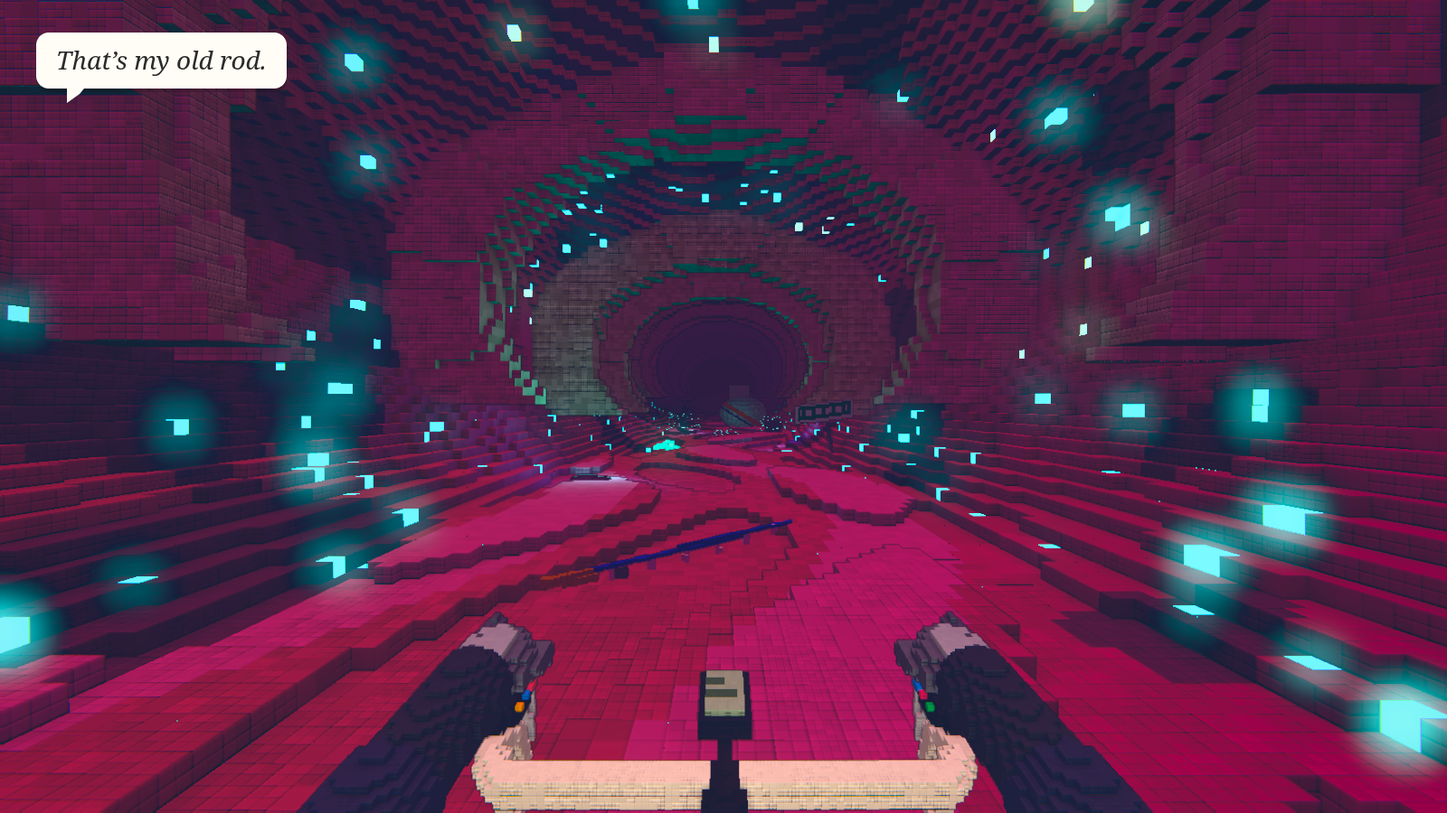
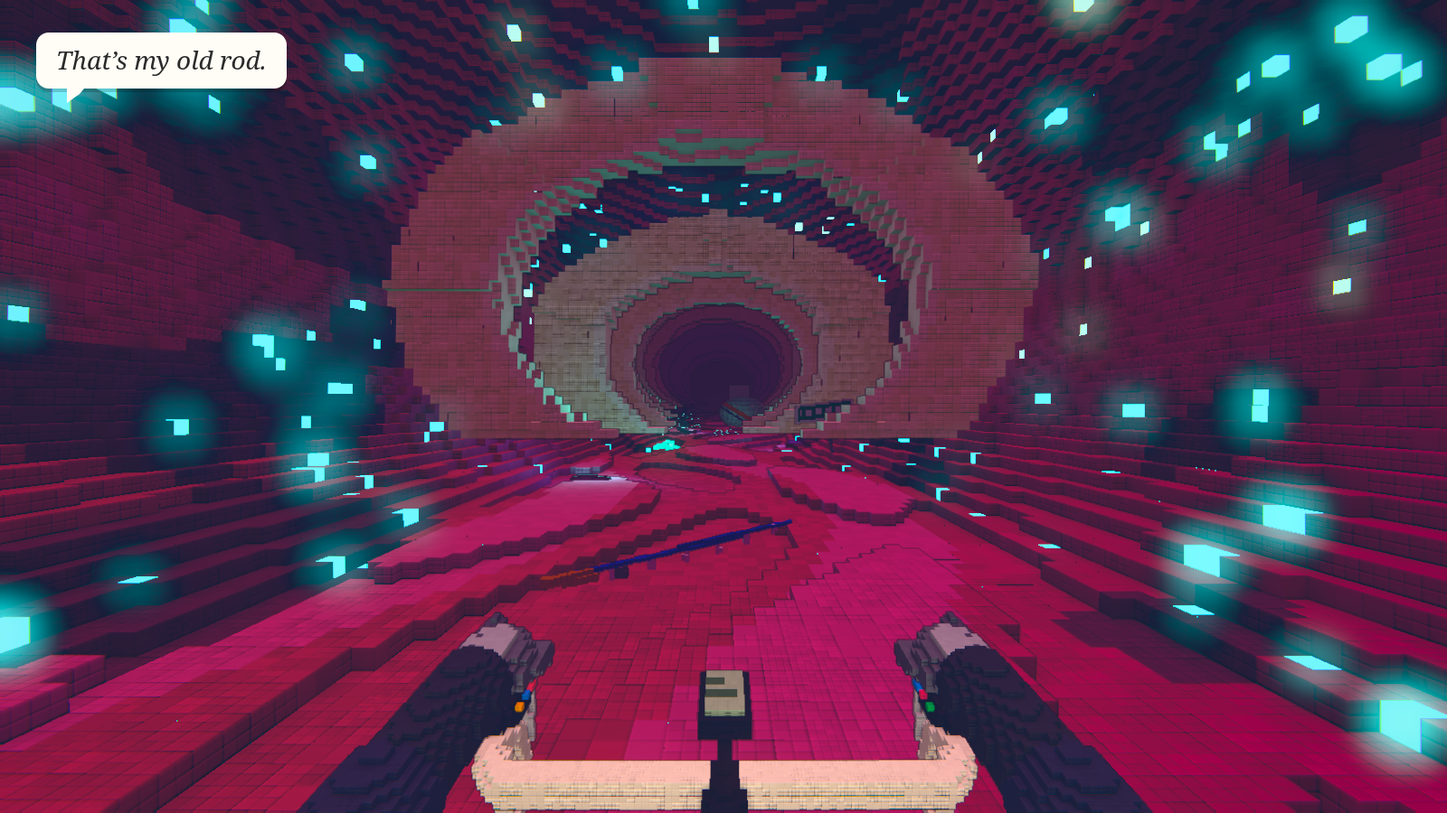
Seaside: drilling still, readable monkey, painted glyphs, lava glow, ribs
- New still: drilling out of the fish — first person behind the scavenged
  drill (gloves on upright grips), fluted bit biting into stepped bone rings
  at the end of a bored tunnel whose walls show flesh -> cartilage -> bone,
  sparks and chips flying back
- Monkey: trees pulled back off the path so the head reads; big round ears
  with dark cups, heart-shaped pale face mask over a dark-furred head
- Glyphs are now painted decals (canvas-drawn symbols: eyes, spirals, fish,
  ladders, suns) on the gate and down the columns, not voxels
- Lava: brighter emissive, a grid of warm lights to light the cavern, more
  bloom in the lava grade
- Belly ribs: own self-lit pale bone layer, slimmer, starting further in
- Re-entry: flames back all around the frame (calmer than the first pass)

Changed region(s): [[0.25, 0.0311, 0.7188, 0.56], [0.75, 0.0, 1.0, 0.4667], [0.0, 0.0, 0.2188, 0.4978]]

diff --git a/src/games/seaside/stills/later/monkey.ts b/src/games/seaside/stills/later/monkey.ts
@@ -38,7 +38,7 @@ function giant(g: VoxelGrid, x: number, z: number, H: number, R: number, seed: n
 export function stillMonkey(canvas: HTMLCanvasElement, w: number, h: number): Stage {
   const sunDir = new THREE.Vector3(-0.35, 0.9, 0.45);
   const st = makeStage(canvas, w, h, {
-    zenith: 0x6fbde6, horizon: 0xe2f0dc, fog: 0xb9d8b4, fogDensity: 0.0072, sunDir, sunColor: 0xfff0c8, sunI: 2.9, hemiSky: 0xc8e8c4, hemiGround: 0x3a5a2a, hemiI: 0.9,
+    zenith: 0x6fbde6, horizon: 0xe2f0dc, fog: 0xb9d8b4, fogDensity: 0.0042, sunDir, sunColor: 0xfff0c8, sunI: 2.9, hemiSky: 0xc8e8c4, hemiGround: 0x3a5a2a, hemiI: 0.9,
   });
 
   // forest floor with leaf litter and roots
@@ -53,10 +53,10 @@ export function stillMonkey(canvas: HTMLCanvasElement, w: number, h: number): St
   });
   // rainforest giants: an arch over the path in front, walls of trees down both sides, a backdrop behind the head
   const giants: Array<[number, number, number, number, [number, number]]> = [
-    [-10.5, -2, 24, 9, [3.5, 0]], [9, -7, 27, 10, [-3.5, 0]], [-11, -16, 26, 8, [2, 0]], [12, -20, 29, 9, [-2, 0]],
-    [-14, -30, 30, 9, [1, 0]], [15, -33, 28, 9, [-1, 0]], [-28, -12, 31, 11, [0, 0]], [29, -8, 30, 11, [0, 0]],
-    [-24, -40, 34, 12, [0, 0]], [25, -44, 33, 12, [0, 0]], [-36, -24, 32, 10, [0, 0]], [37, -28, 31, 10, [0, 0]],
-    [-14, FACE_Z - 26, 38, 14, [0, 0]], [12, FACE_Z - 30, 40, 15, [0, 0]], [-34, FACE_Z - 18, 36, 13, [0, 0]], [33, FACE_Z - 14, 37, 13, [0, 0]],
+    [-10.5, 1, 22, 7, [2.5, 0]], [10, -2, 24, 7, [-2.5, 0]], [-19, -14, 26, 7, [0, 0]], [20, -18, 27, 7, [0, 0]],
+    [-26, -30, 30, 8, [0, 0]], [27, -33, 28, 8, [0, 0]], [-30, -6, 31, 9, [0, 0]], [31, -4, 30, 9, [0, 0]],
+    [-34, -44, 34, 10, [0, 0]], [35, -48, 33, 10, [0, 0]], [-40, -22, 32, 9, [0, 0]], [41, -26, 31, 9, [0, 0]],
+    [-30, FACE_Z - 30, 30, 10, [0, 0]], [30, FACE_Z - 34, 30, 10, [0, 0]], [-44, FACE_Z - 14, 36, 12, [0, 0]], [44, FACE_Z - 10, 37, 12, [0, 0]],
   ];
   giants.forEach(([x, z, H, R, lean], i) => giant(g, x, z, H, R, i + 1, lean));
   addLit(st, 'jungle giants', g, 0.08, { cast: true, receive: true });
@@ -66,11 +66,11 @@ export function stillMonkey(canvas: HTMLCanvasElement, w: number, h: number): St
   for (let i = 0; i < 70; i++) {
     const [tx, tz, H] = giants[i % giants.length], a = rnd(i, 1, 70) * Math.PI * 2, d = 2 + rnd(i, 2, 70) * 6;
     const x = tx + Math.cos(a) * d, z = tz + Math.sin(a) * d;
-    if ((Math.abs(x) < 3 && z < 2 && z > PATH_END) || (Math.abs(x) < 13 && z < -18)) continue; // nothing hanging in front of the face
+    if ((Math.abs(x) < 3 && z < 2 && z > PATH_END) || (Math.abs(x) < 20 && z < -12)) continue; // nothing hanging in front of the face
     const y0 = ground(tx, tz) + H - 3, y1 = ground(x, z) + rnd(i, 3, 70) * 6, sway = (rnd(i, 4, 70) - 0.5) * 1.5;
     for (let k = 0; k < 24; k++) { const t0 = k / 24, t1 = (k + 1) / 24; u.wsegment([x + sway * Math.sin(t0 * 3), y0 + (y1 - y0) * t0, z], [x + sway * Math.sin(t1 * 3), y0 + (y1 - y0) * t1, z], 0.06, L.vine); if (k % 3 === 0) u.wellipsoid([x + sway * Math.sin(t0 * 3) + 0.12, y0 + (y1 - y0) * t0, z], [0.14, 0.05, 0.1], L.jungle3); }
   }
-  for (const [ia, ib] of [[0, 1], [1, 2], [0, 3], [6, 0], [7, 1], [2, 4], [3, 5]]) { // swags between giants, only over the near path
+  for (const [ia, ib] of [[0, 1], [6, 0], [7, 1], [2, 6], [3, 7]]) { // swags between giants, only over the near path
     const [ax, az, ah] = giants[ia], [bx, bz, bh] = giants[ib];
     const A = [ax, ground(ax, az) + ah * 0.75, az], B = [bx, ground(bx, bz) + bh * 0.75, bz];
     for (let k = 0; k < 30; k++) { const t0 = k / 30, t1 = (k + 1) / 30, p = (t: number) => [A[0] + (B[0] - A[0]) * t, A[1] + (B[1] - A[1]) * t - Math.sin(Math.PI * t) * 5, A[2] + (B[2] - A[2]) * t]; u.wsegment(p(t0), p(t1), 0.07, L.vine); }
@@ -84,7 +84,7 @@ export function stillMonkey(canvas: HTMLCanvasElement, w: number, h: number): St
   };
   for (let i = 0; i < 120; i++) {
     const side = i % 2 ? 1 : -1, x = side * (2.6 + rnd(i, 1, 71) ** 1.4 * 20), z = 4 - rnd(i, 2, 71) * (8 - FACE_Z), y0 = ground(x, z);
-    if (z < PATH_END - 6 && Math.abs(x) < 9) continue; // keep the mouth clear
+    if (z < PATH_END - 6 && Math.abs(x) < 12) continue; // keep the mouth clear
     const kind = rnd(i, 3, 71);
     if (kind < 0.45) { // big broad-leaf clump (elephant ear / banana)
       const n = 4 + Math.floor(rnd(i, 4, 71) * 4), size = 0.9 + rnd(i, 5, 71) * 1.4;
@@ -135,8 +135,13 @@ export function stillMonkey(canvas: HTMLCanvasElement, w: number, h: number): St
     const brow = (dx / 6.4) ** 2 + ((y - 10.1) / 1.1) ** 2 + ((z - (FACE_Z + 2.4)) / 1.5) ** 2 < 1;
     const muzzle = (dx / 4.8) ** 2 + ((y - 4.2) / 3.6) ** 2 + ((z - (FACE_Z + 2.0)) / 2.0) ** 2 < 1;
     const jaw = Math.abs(x) < 4.6 && y < 0.9 && z > FACE_Z - 1 && z < FACE_Z + 3.4; // lower jaw / threshold
-    const ears = [-1, 1].some((sx) => ((x - sx * 7.6) / 1.7) ** 2 + ((y - 8.6) / 2.4) ** 2 + ((z - (FACE_Z - 1)) / 0.9) ** 2 < 1);
+    const earAt = (sx: number) => ((x - sx * 8.6) / 2.6) ** 2 + ((y - 8.4) / 2.9) ** 2 + ((z - (FACE_Z - 0.2)) / 1.1) ** 2;
+    const ears = [-1, 1].some((sx) => earAt(sx) < 1);
+    const earCup = [-1, 1].some((sx) => earAt(sx) < 0.45 && z > FACE_Z + 0.2);
+    // heart-shaped face mask: two eye lobes + the muzzle
+    const mask = [-1, 1].some((sx) => ((x - sx * 2.4) / 2.5) ** 2 + ((y - 8.6) / 2.4) ** 2 < 1) || (x / 4.6) ** 2 + ((y - 4.2) / 4.0) ** 2 < 1;
     if (!(head || base || brow || muzzle || jaw || ears)) return 0;
+    if (earCup) return L.stoneDark;
     // eye sockets and nostrils
     if ([-1, 1].some((sx) => ((x - sx * 2.4) / 1.35) ** 2 + ((y - 8.7) / 1.05) ** 2 < 1) && z > FACE_Z + 0.4) return z < FACE_Z + 0.9 ? L.shadowVoid : 0;
     if ([-1, 1].some((sx) => ((x - sx * 0.75) / 0.38) ** 2 + ((y - 6.6) / 0.32) ** 2 < 1) && z > FACE_Z + 3.0) return 0;
@@ -151,15 +156,15 @@ export function stillMonkey(canvas: HTMLCanvasElement, w: number, h: number): St
     if (mo < 1.25 && z > FACE_Z + 1.6 && y > 0.6) return L.stoneDark; // lip ring
     const mossy = y > 3 && rnd(Math.round(wx * 3), Math.round(wy * 3), Math.round(wz * 3)) < 0.1 + 0.5 * Math.max(0, fbm(x / 3, z / 3, 2, 47) - 0.55);
     if (mossy) return L.moss;
-    if (muzzle || brow || jaw) return rnd(Math.round(wx * 3), Math.round(wy * 3), Math.round(wz * 3)) < 0.5 ? L.stone3 : L.stone; // pale face mask
-    const band = Math.floor(y / 0.6 + fbm(x / 4, z / 4, 2, 48) * 1.5) % 3;
-    return band === 1 ? L.stoneDark : L.stone2;
+    if ((mask && z > FACE_Z + 1.0) || muzzle || jaw) return rnd(Math.round(wx * 3), Math.round(wy * 3), Math.round(wz * 3)) < 0.5 ? L.stone3 : L.stone; // pale face mask
+    const n = fbm(x / 4, z / 4 + y / 4, 2, 48);
+    return n < 0.45 ? L.stoneDark : L.basalt2; // a dark-furred head around the pale face
   });
   const eg = new VoxelGrid(0.15);
   for (const sx of [-1, 1]) eg.wellipsoid([sx * 2.4 * K, 8.65 * K, FACE_Z + 1.0 * K], [0.3 * K, 0.24 * K, 0.15], L.glyph);
   addGlow(st, 'eye glints', eg, 1.6);
   for (let i = 0; i < 26; i++) { // vines spilling over the brow and ears, clear of the eyes and mouth
-    const ux = -7 + i * 0.56; if (Math.abs(ux) < 4.2) continue;
+    const ux = -7 + i * 0.56; if (Math.abs(ux) < 5.5) continue;
     const x = (ux + rnd(i, 1, 49) * 0.3) * K, len = (2 + rnd(i, 2, 49) * 6) * K;
     f.wsegment([x, 12.5 * K, FACE_Z + 1.5 * K], [x + (rnd(i, 3, 49) - 0.5) * 2, 12.5 * K - len, FACE_Z + 2.4 * K], 0.2, rnd(i, 4, 49) < 0.5 ? L.vine : L.jungle3);
   }

diff --git a/src/games/seaside/stills/later/drill.ts b/src/games/seaside/stills/later/drill.ts
@@ -1,0 +1,89 @@
+// Midday, 0:47 — drilling out of the fish: first person behind the scavenged drill (the bars became its grips), the
+// bit biting into the bone layer at the end of a short bored tunnel whose walls show the layers already cut through:
+// flesh → cartilage → bone. Chips fly back, sparks where steel meets bone.
+import * as THREE from 'three';
+import { VoxelGrid } from '../../voxel/grid';
+import { noise2 } from '../../voxel/noise';
+import { makeStage, type Stage } from '../stage';
+import { L, fillBox, addLit, addGlow, rnd } from './kit';
+
+const FACE = -3.4; // where the bit meets the bone (camera at z = 0, looking down −z)
+
+export function stillDrill(canvas: HTMLCanvasElement, w: number, h: number): Stage {
+  const st = makeStage(canvas, w, h, {
+    zenith: 0x1a0612, horizon: 0x2a0a1e, fog: 0x2a0a20, fogDensity: 0.05, sunDir: new THREE.Vector3(0, 1, 0.3), sunColor: 0xff9ac8, sunI: 0.3,
+    hemiSky: 0xff6ab0, hemiGround: 0x3a0f30, hemiI: 0.6,
+  });
+  st.scene.fog = null; st.sun.castShadow = false;
+  st.camera.fov = 74; st.camera.updateProjectionMatrix();
+  st.camera.position.set(0, 0, 0); st.camera.lookAt(0, -0.18, -3); st.camera.updateMatrixWorld();
+
+  // the bored tunnel: a rough cylinder whose wall material records the layers cut through; the end face is bone,
+  // cut in concentric rings around the bit, with an annulus of cartilage still showing at its edge
+  const s = 0.04, t = new VoxelGrid(s), sparks = new VoxelGrid(0.02);
+  const layer = (z: number) => (z > -1.2 ? 'flesh' : z > -2.4 ? 'cart' : 'bone');
+  const tint = (kind: string, n: number) => kind === 'flesh' ? (n < 0.33 ? L.fleshDark : n < 0.66 ? L.flesh2 : L.flesh) : kind === 'cart' ? (n < 0.3 ? L.cartDark : n < 0.65 ? L.cart2 : L.cart) : n < 0.5 ? L.bone : L.bone2;
+  fillBox(t, [-2.4, -2.1, FACE - 0.6], [2.4, 2.1, 0.8], (x, y, z) => {
+    const R = 1.3 + 0.08 * Math.sin(Math.atan2(y, x) * 7 + z * 9) + 0.05 * noise2(x * 3, z * 3, 3), r = Math.hypot(x, y);
+    const n = rnd(Math.round(x / s), Math.round(y / s), Math.round(z / s));
+    if (z < FACE) { // the end face, cut into stepped rings around the bit
+      const ring = Math.floor(r / 0.22), depth = FACE - 0.05 * ring - 0.04 * Math.sin(ring * 2.1);
+      if (z > depth || r > R + 0.5) return 0;
+      if (r > R - 0.15) return tint('cart', n);
+      return ring % 2 ? (n < 0.5 ? L.bone2 : L.bone) : n < 0.6 ? L.ribEdge : L.bone;
+    }
+    if (r < R || r > R + 0.35) return 0;
+    // spiral gouges from the bit along the wall
+    const gouge = Math.sin(Math.atan2(y, x) * 2 + z * 11) > 0.85 && r < R + 0.06;
+    return gouge ? (layer(z) === 'flesh' ? L.fleshDark : layer(z) === 'cart' ? L.cartDark : L.bone2) : tint(layer(z), n);
+  });
+  addLit(st, 'tunnel', t, 0.06, { cast: false, receive: false });
+
+  // the drill: housing where the stem was, two vertical grips with gloves, a long fluted bit
+  const d = new VoxelGrid(0.006);
+  const Y = -0.5, Z = -0.6;
+  d.wbox([-0.12, Y - 0.06, Z - 0.22], [0.12, Y + 0.1, Z + 0.12], L.drillBody);
+  d.wbox([-0.125, Y + 0.02, Z - 0.22], [0.125, Y + 0.035, Z + 0.12], L.drillDark);
+  d.wbox([-0.09, Y + 0.1, Z - 0.16], [0.09, Y + 0.13, Z + 0.06], L.drillBody2);
+  for (let k = 0; k < 5; k++) d.wbox([-0.1 + k * 0.045, Y + 0.13, Z - 0.12], [-0.085 + k * 0.045, Y + 0.145, Z + 0.02], L.drillDark); // vents
+  d.wellipsoid([0, Y + 0.02, Z - 0.24], [0.07, 0.07, 0.04], L.drillSteel2); // chuck
+  const tip = [0, -0.18, FACE + 0.04];
+  for (let k = 0; k <= 160; k++) { // fluted bit: a helix of two cutting edges around a core, tapering to the tip
+    const u = k / 160, p = [0, Y + 0.02 + (tip[1] - Y - 0.02) * u, Z - 0.26 + (tip[2] - Z + 0.26) * u], r = 0.055 * (1 - u * 0.75);
+    d.wellipsoid(p, [r * 0.55, r * 0.55, 0.012], L.drillSteel2);
+    for (const ph of [0, Math.PI]) { const a = u * 40 + ph; d.wellipsoid([p[0] + Math.cos(a) * r, p[1] + Math.sin(a) * r, p[2]], [0.012, 0.012, 0.012], L.drillSteel); }
+  }
+  for (const sx of [-1, 1]) {
+    const gx = sx * 0.2, Y = -0.36; // grips stand up beside the housing, gloves in view
+    d.wbox([gx - 0.025, Y - 0.12, Z - 0.05], [gx + 0.025, Y + 0.12, Z + 0.05], L.drillDark); // grip
+    d.wsegment([gx - sx * 0.02, Y + 0.0, Z], [sx * 0.12, Y + 0.0, Z - 0.04], 0.02, L.drillSteel2); // arm to the housing
+    // glove wrapped around the grip, knuckles forward, arm warmer heading back to the shoulder
+    d.wellipsoid([gx, Y + 0.03, Z + 0.02], [0.045, 0.06, 0.05], L.gloveG);
+    for (let f = 0; f < 4; f++) d.wsegment([gx + sx * 0.03, Y + 0.075 - f * 0.026, Z - 0.035], [gx - sx * 0.03, Y + 0.07 - f * 0.026, Z - 0.05], 0.012, L.gloveG2);
+    d.wsegment([gx - sx * 0.03, Y + 0.08, Z + 0.01], [gx - sx * 0.04, Y + 0.09, Z - 0.04], 0.012, L.gloveTop); // thumb
+    d.wsegment([gx, Y + 0.04, Z + 0.06], [gx + sx * 0.12, Y - 0.12, Z + 0.45], 0.045, L.drillDark);
+  }
+  const rig = new THREE.Group(); addLit(st, 'drill', d, 0.04, { cast: false, receive: false }, rig); st.scene.add(rig);
+  // a work lamp on the housing
+  const lamp = new THREE.SpotLight(0xfff0d8, 5, 8, 0.6, 0.6, 1.2); lamp.position.set(0, Y + 0.12, Z - 0.1); lamp.target.position.set(0, -0.1, FACE); st.scene.add(lamp, lamp.target);
+  d.wbox([-0.03, Y + 0.13, Z - 0.2], [0.03, Y + 0.16, Z - 0.17], L.lamp);
+
+  // sparks spraying off the contact point, bone chips and flesh scraps flying back past the camera
+  for (let i = 0; i < 90; i++) {
+    const a = rnd(i, 1, 100) * Math.PI * 2, sp = 0.2 + rnd(i, 2, 100) * 1.1, back = rnd(i, 3, 100) * 2.4;
+    const p0 = [tip[0] + Math.cos(a) * 0.03, tip[1] + Math.sin(a) * 0.03, tip[2] + 0.02];
+    const p1 = [p0[0] + Math.cos(a) * sp, p0[1] + Math.sin(a) * sp * 0.8 + 0.1, p0[2] + back * 0.35];
+    sparks.wsegment(p0.map((v, k) => v + (p1[k] - v) * 0.55), p1, 0.006, i % 3 ? L.spark : L.lavaHot);
+  }
+  sparks.wellipsoid(tip, [0.035, 0.035, 0.02], L.spark);
+  addGlow(st, 'sparks', sparks, 1.8);
+  const chips = new VoxelGrid(0.012);
+  for (let i = 0; i < 45; i++) {
+    const a = rnd(i, 4, 101) * Math.PI * 2, rr = 0.2 + rnd(i, 5, 101) * 0.9, z = FACE + 0.2 + rnd(i, 6, 101) * 1.6;
+    const c = [Math.cos(a) * rr, -0.15 + Math.sin(a) * rr * 0.8, z], sz = 0.012 + rnd(i, 7, 101) * 0.025;
+    chips.wbox([c[0] - sz, c[1] - sz, c[2] - sz], [c[0] + sz, c[1] + sz, c[2] + sz], rnd(i, 8, 101) < 0.55 ? L.bone : rnd(i, 9, 101) < 0.5 ? L.cart : L.flesh2);
+  }
+  addLit(st, 'chips', chips, 0.05, { cast: false, receive: false });
+  const hot = new THREE.PointLight(0xffb060, 1.5, 3, 1.6); hot.position.set(tip[0], tip[1], tip[2] + 0.3); st.scene.add(hot);
+  return st;
+}

diff --git a/src/games/seaside/stills/later/kit.ts b/src/games/seaside/stills/later/kit.ts
@@ -8,7 +8,8 @@ import { addGrid, type Stage } from '../stage';
 
 export const LATER = definePalette({
   // belly
-  flesh: 0xd2487e, flesh2: 0xbf3a70, flesh3: 0xe0649a, fleshDark: 0x6a1f4e, fold: 0xe98ab4, bone: 0xf0e4c8, bone2: 0xdccfaf,
+  flesh: 0xd2487e, flesh2: 0xbf3a70, flesh3: 0xe0649a, fleshDark: 0x6a1f4e, fold: 0xe98ab4, cart: 0xd4e6f0, cart2: 0xbcd4e4, cartDark: 0x8fb0c8, drillBody: 0xe8553a, drillBody2: 0xc9452e, drillSteel: 0xc8cdd2, drillSteel2: 0x8e959c, drillDark: 0x2a2d32, gloveG: 0x6a707a, gloveG2: 0x5f6570, gloveTop: 0xa9b0b9, spark: 0xfff0b0, lamp: 0xfff6d8,
+  bone: 0xfff3da, bone2: 0xf0e2c2, ribEdge: 0xfffbf0,
   bile: 0x3ef0d8, bile2: 0x7affea, spot: 0x5ff6ff, spot2: 0xb8fff4, hubcap: 0xc9d1d8, hubcap2: 0x8e979f,
   signGreen: 0x1f7a4a, signWhite: 0xf6f6f2, post: 0x8a9096, rodBlue: 0x2a6fd6, cork: 0xc9a06a,
   boatWhite: 0xeeeae0, boatOrange: 0xef6a2a, boatStripe: 0x2f4f6f, steel: 0x8f969c, steel2: 0x6c7379, chain: 0x5a5f64, partGlow: 0x9ff8ff,
@@ -60,3 +61,45 @@ export function fpBars(st: Stage, y = -0.31, z = -0.46) {
 }
 
 export const rnd = (a: number, b: number, c = 0) => { let h = (a * 374761393 + b * 668265263 + c * 982451653) | 0; h = Math.imul(h ^ (h >>> 13), 1274126177); return ((h ^ (h >>> 16)) >>> 0) / 4294967296; };
+
+/**
+ * Painted glyphs: a canvas texture of hand-drawn-looking symbols (rings, eyes, spirals, fish, ladders, suns) in rows,
+ * for decals on walls and columns. Glowing paint: use with an unlit additive material whose colour is > 1 for bloom.
+ */
+export function glyphTexture(cols: number, rows: number, seed: number, palette = ['#ffd27a', '#ffb347', '#7affea']): THREE.CanvasTexture {
+  const cell = 96, cv = document.createElement('canvas');
+  cv.width = cols * cell; cv.height = rows * cell;
+  const g = cv.getContext('2d')!;
+  g.lineCap = 'round'; g.lineJoin = 'round';
+  const R = (i: number, k: number) => rnd(i, k, seed);
+  for (let r = 0; r < rows; r++) for (let c = 0; c < cols; c++) {
+    const i = r * cols + c, cx = c * cell + cell / 2 + (R(i, 1) - 0.5) * 8, cy = r * cell + cell / 2 + (R(i, 2) - 0.5) * 8, s = cell * 0.36;
+    if (R(i, 3) < 0.12) continue; // gaps, like a worn inscription
+    g.strokeStyle = g.fillStyle = palette[Math.floor(R(i, 4) * palette.length)];
+    g.lineWidth = 5 + R(i, 5) * 3;
+    g.shadowColor = g.strokeStyle; g.shadowBlur = 10;
+    g.beginPath();
+    switch (Math.floor(R(i, 6) * 8)) {
+      case 0: g.arc(cx, cy, s, 0, Math.PI * 2); g.moveTo(cx + s * 0.35, cy); g.arc(cx, cy, s * 0.35, 0, Math.PI * 2); break; // ringed eye
+      case 1: g.moveTo(cx - s, cy); g.quadraticCurveTo(cx, cy - s * 1.2, cx + s, cy); g.quadraticCurveTo(cx, cy + s * 1.2, cx - s, cy); g.moveTo(cx + s * 0.18, cy); g.arc(cx, cy, s * 0.18, 0, Math.PI * 2); break; // eye
+      case 2: for (let a = 0; a < 12; a += 0.25) { const rr = (a / 12) * s; const x = cx + Math.cos(a) * rr, y = cy + Math.sin(a) * rr; if (a === 0) g.moveTo(x, y); else g.lineTo(x, y); } break; // spiral
+      case 3: g.moveTo(cx - s, cy); g.quadraticCurveTo(cx, cy - s * 0.8, cx + s * 0.5, cy); g.quadraticCurveTo(cx, cy + s * 0.8, cx - s, cy); g.moveTo(cx + s * 0.5, cy); g.lineTo(cx + s, cy - s * 0.5); g.lineTo(cx + s, cy + s * 0.5); g.closePath(); break; // fish
+      case 4: g.moveTo(cx - s * 0.5, cy - s); g.lineTo(cx - s * 0.5, cy + s); g.moveTo(cx + s * 0.5, cy - s); g.lineTo(cx + s * 0.5, cy + s); for (let k = -2; k <= 2; k++) { g.moveTo(cx - s * 0.5, cy + k * s * 0.4); g.lineTo(cx + s * 0.5, cy + k * s * 0.4); } break; // ladder
+      case 5: g.arc(cx, cy, s * 0.4, 0, Math.PI * 2); for (let k = 0; k < 8; k++) { const a = (k / 8) * Math.PI * 2; g.moveTo(cx + Math.cos(a) * s * 0.6, cy + Math.sin(a) * s * 0.6); g.lineTo(cx + Math.cos(a) * s, cy + Math.sin(a) * s); } break; // sun
+      case 6: g.moveTo(cx - s, cy + s); g.lineTo(cx, cy - s); g.lineTo(cx + s, cy + s); g.moveTo(cx - s * 0.5, cy + s * 0.2); g.lineTo(cx + s * 0.5, cy + s * 0.2); break; // mountain / gate
+      default: g.moveTo(cx - s, cy - s * 0.3); g.bezierCurveTo(cx - s * 0.3, cy - s * 1.2, cx + s * 0.3, cy + s * 0.6, cx + s, cy - s * 0.3); g.moveTo(cx, cy + s * 0.2); g.lineTo(cx, cy + s); g.moveTo(cx - s * 0.6, cy + s); g.lineTo(cx + s * 0.6, cy + s); break; // wave over a stand
+    }
+    g.stroke();
+    if (R(i, 7) < 0.4) { g.beginPath(); g.arc(cx + s * 0.9, cy - s * 0.9, 4, 0, Math.PI * 2); g.fill(); } // dot accents
+  }
+  const tex = new THREE.CanvasTexture(cv);
+  tex.colorSpace = THREE.SRGBColorSpace; tex.anisotropy = 4;
+  return tex;
+}
+
+/** A glowing painted-glyph decal plane (w × h metres), facing +z by default. */
+export function glyphDecal(tex: THREE.Texture, w: number, h: number, intensity = 2.2): THREE.Mesh {
+  const m = new THREE.Mesh(new THREE.PlaneGeometry(w, h), new THREE.MeshBasicMaterial({ map: tex, transparent: true, color: new THREE.Color(intensity, intensity, intensity), depthWrite: false, blending: THREE.AdditiveBlending, fog: false }));
+  m.renderOrder = 2;
+  return m;
+}

diff --git a/src/games/seaside/stills/later/lava.ts b/src/games/seaside/stills/later/lava.ts
@@ -4,7 +4,7 @@ import * as THREE from 'three';
 import { VoxelGrid } from '../../voxel/grid';
 import { noise2, fbm } from '../../voxel/noise';
 import { makeStage, type Stage } from '../stage';
-import { L, fillBox, addLit, addGlow, fpBars, rnd } from './kit';
+import { L, fillBox, addLit, addGlow, fpBars, rnd, glyphTexture, glyphDecal } from './kit';
 
 const LAVA_Y = -28;
 const bridgeY = (z: number) => 2.6 * Math.sin((Math.PI * (4 - z)) / 170);
@@ -13,7 +13,7 @@ const bankY = (x: number, z: number) => { const out = Math.max(0, Math.abs(x) - 
 export function stillLava(canvas: HTMLCanvasElement, w: number, h: number): Stage {
   const st = makeStage(canvas, w, h, {
     zenith: 0x0a0406, horizon: 0x2a0d08, fog: 0x4a1a0a, fogDensity: 0.0075, sunDir: new THREE.Vector3(0.25, -1, 0.35), sunColor: 0xff8a3a, sunI: 1.6,
-    hemiSky: 0x40203a, hemiGround: 0xff7a2a, hemiI: 1.5,
+    hemiSky: 0x40203a, hemiGround: 0xff6a1a, hemiI: 2.0,
   });
   st.sun.castShadow = false;
 
@@ -46,7 +46,7 @@ export function stillLava(canvas: HTMLCanvasElement, w: number, h: number): Stag
     return crack ? L.lavaHot : cell < 0.32 ? L.lava : L.lava2;
   });
   addLit(st, 'cavern + crust', rock, 0.1, { cast: false, receive: false });
-  addGlow(st, 'lava', lava, 1.7);
+  addGlow(st, 'lava', lava, 2.4);
 
   // the bridge: black glass, a violet sheen on its edges, thin piers into the lava with glowing cracks
   const b = new VoxelGrid(0.12), bglow = new VoxelGrid(0.12);
@@ -72,10 +72,14 @@ export function stillLava(canvas: HTMLCanvasElement, w: number, h: number): Stag
   for (let z = -112; z > gz; z -= 9) for (const sx of [-1, 1]) {
     const x = sx * 2.4, base = bridgeY(z) - 3;
     b.wbox([x - 0.45, base, z - 0.45], [x + 0.45, base + 9, z + 0.45], L.basalt2);
-    for (let k = 0; k < 6; k++) if (rnd(Math.round(z), k, sx + 80) < 0.7) bglow.wbox([x - 0.18 - sx * 0.3, base + 2 + k * 1.1, z - 0.18], [x + 0.18 - sx * 0.3, base + 2.5 + k * 1.1, z + 0.18], k % 2 ? L.glyph : L.glyph2);
+    // a strip of painted glyphs down the face of the column that looks at the path
+    const d = glyphDecal(glyphTexture(1, 6, Math.round(z) * 3 + sx), 0.8, 4.8, 2.4);
+    d.position.set(x - sx * 0.46, base + 5, z); d.rotation.y = -sx * Math.PI / 2; st.scene.add(d);
   }
   b.wbox([-14, bridgeY(gz) - 6, gz - 1.5], [14, bridgeY(gz) + 22, gz], L.basalt3);
-  for (let i = 0; i < 70; i++) { const x = -12 + rnd(i, 1, 81) * 24, y = bridgeY(gz) - 2 + rnd(i, 2, 81) * 20; if (Math.abs(x) < 2.5 && y < bridgeY(gz) + 5) continue; bglow.wbox([x - 0.3, y - 0.3, gz + 0.05], [x + 0.3, y + 0.3, gz + 0.2], rnd(i, 3, 81) < 0.7 ? L.glyph : L.glyph2); }
+  // the gate: one great painted inscription, a ring of symbols around a doorway-shaped panel
+  const gate = glyphDecal(glyphTexture(12, 10, 7), 24, 20, 2.0);
+  gate.position.set(0, bridgeY(gz) + 9, gz + 0.02); st.scene.add(gate);
   addLit(st, 'bridge + piers + columns', b, 0.06, { cast: false, receive: false });
   addGlow(st, 'glyphs + pier cracks', bglow, 1.8);
 
@@ -91,7 +95,9 @@ export function stillLava(canvas: HTMLCanvasElement, w: number, h: number): Stag
   for (let i = 0; i < 160; i++) { const e = [(rnd(i, 1, 84) - 0.5) * 60, LAVA_Y + 2 + rnd(i, 2, 84) * 30, -rnd(i, 3, 84) * 140]; fish.wbox(e, e.map((v) => v + 0.12), L.ember); }
   addGlow(st, 'magma fish + embers', fish, 2.2);
 
-  for (const [x, z] of [[-10, -30], [12, -45], [0, -80], [-15, -110]]) { const pl = new THREE.PointLight(0xff7a2a, 40, 60, 1.4); pl.position.set(x, LAVA_Y + 6, z); st.scene.add(pl); }
+  // the lava lights the cavern: a grid of warm lights just above the surface, plus a glow under the bridge
+  for (let x = -60; x <= 60; x += 30) for (let z = 10; z >= -200; z -= 35) { const pl = new THREE.PointLight(0xff6a1a, 260, 95, 1.3); pl.position.set(x, LAVA_Y + 4, z); st.scene.add(pl); }
+  const under = new THREE.PointLight(0xff8a3a, 60, 25, 1.2); under.position.set(0, LAVA_Y + 10, -20); st.scene.add(under);
   st.camera.fov = 72; st.camera.updateProjectionMatrix();
   st.camera.position.set(0.15, bridgeY(4) + 1.55, 4);
   st.camera.lookAt(-0.6, -11, -70);

diff --git a/src/games/seaside/stills/later/belly.ts b/src/games/seaside/stills/later/belly.ts
@@ -15,7 +15,7 @@ export function stillBelly(canvas: HTMLCanvasElement, w: number, h: number): Sta
     hemiSky: 0xff6ab0, hemiGround: 0x3a0f30, hemiI: 0.85,
   });
   st.sun.castShadow = false;
-  const s = 0.15, wall = new VoxelGrid(s), glow = new VoxelGrid(s);
+  const s = 0.15, wall = new VoxelGrid(s), glow = new VoxelGrid(s), ribs = new VoxelGrid(s);
   fillBox(wall, [-9, -1.2, -78], [9, 12, 8], (x, y, z) => {
     const r = R(z), rx = r * 1.15, ry = r * 0.85, cy = ry - 0.6;
     const th = Math.atan2(y - cy, x);
@@ -24,7 +24,7 @@ export function stillBelly(canvas: HTMLCanvasElement, w: number, h: number): Sta
     const fy = floorY(x, z) - (pool(x, z) ? 0.25 : 0);
     // ribs: bone bands arching over the upper half, protruding ~1 m inward
     const k = Math.round((z + 2) / -4.4), zr = -2 - 4.4 * k;
-    if (k >= 0 && Math.abs(z - zr) < 0.42 + 0.1 * Math.sin(th * 5) && y > cy - ry * 0.45 && q > 1 - 1.3 / r && q < 1 + 0.6 / r) return rnd(Math.round(x / s), Math.round(y / s), 3) < 0.5 ? L.bone : L.bone2;
+    if (k >= 1 && Math.abs(z - zr) < 0.32 + 0.06 * Math.sin(th * 5) && y > cy - ry * 0.6 && q > 1 - 1.5 / r && q < 1 + 0.6 / r) { ribs.set(ribs.vi(x, 0), ribs.vi(y, 1), ribs.vi(z, 2), q < 1 - 1.3 / r ? L.ribEdge : rnd(Math.round(x / s), Math.round(y / s), 3) < 0.6 ? L.bone : L.bone2); return 0; }
     if (q >= 1 && q < 1 + 0.9 / r && y > fy - 0.6) {
       const n = noise2(th * 4 + 9, z * 0.5, 7);
       if (q < 1 + 1.5 * s / r && rnd(Math.round(x / s), Math.round(y / s), Math.round(z / s)) < 0.02 + 0.05 * Math.max(0, n - 0.6)) { glow.set(glow.vi(x, 0), glow.vi(y, 1), glow.vi(z, 2), n > 0.7 ? L.spot2 : L.spot); return 0; }
@@ -37,6 +37,9 @@ export function stillBelly(canvas: HTMLCanvasElement, w: number, h: number): Sta
     return 0;
   });
   addLit(st, 'belly walls', wall, 0.07, { cast: false, receive: false });
+  // ribs: pale bone with a faint self-light so the pink haze can't swallow them
+  const ribGrp = addLit(st, 'ribs', ribs, 0.06, { cast: false, receive: false });
+  ribGrp.traverse((o) => { const m = (o as THREE.Mesh).material as THREE.MeshLambertMaterial | undefined; if (m?.emissive) { m.emissive.set(0x4a3e32); } });
   addGlow(st, 'bioluminescence + bile', glow, 2.4);
 
   // swallowed things, at finer voxels

diff --git a/src/games/seaside/stills/later/reentry.ts b/src/games/seaside/stills/later/reentry.ts
@@ -46,13 +46,14 @@ export function stillReentry(canvas: HTMLCanvasElement, w: number, h: number): S
   // camera-space effects: fire streaking past the frame edges, plasma at the front wheel, wings tearing out
   const fx = new THREE.Group(); st.camera.add(fx);
   const fire = new VoxelGrid(0.012);
-  for (let i = 0; i < 46; i++) {
-    const a = rnd(i, 1, 96) * Math.PI * 2, r0 = 0.78 + rnd(i, 2, 96) * 0.25, len = 0.18 + rnd(i, 3, 96) * 0.4, z = -0.9 - rnd(i, 4, 96) * 0.6;
-    if (Math.abs(Math.cos(a)) > 0.75) continue; // keep the sides clear for the wings
+  for (let i = 0; i < 70; i++) {
+    const a = rnd(i, 1, 96) * Math.PI * 2, r0 = 0.6 + rnd(i, 2, 96) * 0.3, len = 0.22 + rnd(i, 3, 96) * 0.5, z = -0.9 - rnd(i, 4, 96) * 0.6;
+    if (Math.abs(Math.cos(a)) > 0.8 && rnd(i, 6, 96) < 0.5) continue; // thin out over the wings
     const p0 = [Math.cos(a) * r0 * 1.6, Math.sin(a) * r0, z], p1 = [Math.cos(a) * (r0 + len) * 1.6, Math.sin(a) * (r0 + len), z + 0.4];
-    fire.wsegment(p0, p1, 0.004 + rnd(i, 5, 96) * 0.006, i % 3 === 0 ? L.fire3 : i % 3 === 1 ? L.fire2 : L.fire);
+    fire.wsegment(p0, p1, 0.005 + rnd(i, 5, 96) * 0.009, i % 3 === 0 ? L.fire3 : i % 3 === 1 ? L.fire2 : L.fire);
   }
-  fire.wellipsoid([0, -0.5, -0.95], [0.12, 0.03, 0.06], L.fire3); // plasma building under the front of the bike
+  fire.wellipsoid([0, -0.46, -0.92], [0.17, 0.04, 0.09], L.fire3); // plasma building under the front of the bike
+  fire.wellipsoid([0, -0.47, -0.94], [0.26, 0.05, 0.13], L.fire2);
   addGlow(st, 'fire', fire, 2.6, fx);
   // wings: big white feathers bursting in from both sides, lit orange from below
   const wing = new VoxelGrid(0.012);

diff --git a/src/games/seaside/render/looks.ts b/src/games/seaside/render/looks.ts
@@ -16,8 +16,8 @@ export const LOOKS: Record<string, LookPreset> = {
   // per-scene grades for the later-story stills
   belly: { label: 'Belly (Midday)', bevel: 1, cool: 0.6, post: { outline: 0.7, ink: new THREE.Color(0x3a0a2a), grade: 0.8, saturation: 1.1, bloom: 0.9, threshold: 0.95, halation: 0.5, dream: 0.4 } },
   jungle: { label: 'Monkey mouth (Midday)', bevel: 1, cool: 1, post: { outline: 0.8, ink: new THREE.Color(0x1f2a12), grade: 0.9, pastel: 0.1, saturation: 1.1, bloom: 0.45, threshold: 0.85, halation: 0.6, dream: 0.45 } },
-  lava: { label: 'Obsidian bridge (Evening)', bevel: 1, cool: 0.7, post: { outline: 0.9, ink: new THREE.Color(0x2a0606), grade: 1, saturation: 1.2, bloom: 0.75, threshold: 0.95, halation: 1, dream: 0.75 } },
-  reentry: { label: 'Re-entry (Evening)', bevel: 1, cool: 0.5, post: { outline: 0.8, ink: new THREE.Color(0x3a0a1a), grade: 1, saturation: 1.15, bloom: 0.8, threshold: 0.95, halation: 1, dream: 0.8 } },
+  lava: { label: 'Obsidian bridge (Evening)', bevel: 1, cool: 0.7, post: { outline: 0.9, ink: new THREE.Color(0x2a0606), grade: 1, saturation: 1.2, bloom: 1.25, threshold: 0.85, halation: 1, dream: 0.75 } },
+  reentry: { label: 'Re-entry (Evening)', bevel: 1, cool: 0.5, post: { outline: 0.8, ink: new THREE.Color(0x3a0a1a), grade: 1, saturation: 1.2, bloom: 1.1, threshold: 0.9, halation: 1, dream: 0.9 } },
   fever: { label: 'G · Evening: fever dream', bevel: 1, cool: 1, post: { outline: 1, ink: new THREE.Color(0x5a0f3a), grade: 1, saturation: 1.3, bloom: 1.2, threshold: 0.5, halation: 1, dream: 1, posterize: 24, dither: 0.5 } },
 };
 

diff --git a/dev/seaside.ts b/dev/seaside.ts
@@ -6,6 +6,7 @@ import { stillBelly } from '../src/games/seaside/stills/later/belly';
 import { stillMonkey } from '../src/games/seaside/stills/later/monkey';
 import { stillLava } from '../src/games/seaside/stills/later/lava';
 import { stillReentry } from '../src/games/seaside/stills/later/reentry';
+import { stillDrill } from '../src/games/seaside/stills/later/drill';
 import { applyLook } from '../src/games/seaside/render/looks';
 import { PostFX } from '../src/games/seaside/render/post';
 
@@ -19,6 +20,7 @@ const STILLS: Record<string, Still> = {
   monkey: { make: stillMonkey, overlay: bubble('Well. In we go.'), look: 'jungle', time: 2 },
   lava: { make: stillLava, overlay: bubble('Those are fish.'), look: 'lava', time: 5 },
   reentry: { make: stillReentry, look: 'reentry', time: 7 },
+  drill: { make: stillDrill, overlay: bubble('Bone. Bone is close to out.'), look: 'belly', time: 4 },
   belly: { make: stillBelly, overlay: bubble('That’s my old rod.'), look: 'belly', time: 3 },
 };
 

diff --git a/scripts/seaside-stills.ts b/scripts/seaside-stills.ts
@@ -5,7 +5,7 @@ import { chromium } from 'playwright-core';
 import { join } from 'node:path';
 
 const extra = process.env.STILL_Q ? `&${process.env.STILL_Q}` : '';
-const names = process.argv.slice(2).length ? process.argv.slice(2) : ['highway', 'turnout', 'shop', 'lou', 'belly', 'monkey', 'lava', 'reentry'];
+const names = process.argv.slice(2).length ? process.argv.slice(2) : ['highway', 'turnout', 'shop', 'lou', 'belly', 'drill', 'monkey', 'lava', 'reentry'];
 const server = await createServer({ server: { port: 5298, strictPort: false, hmr: false, watch: null }, logLevel: 'error' });
 await server.listen();
 const base = server.resolvedUrls!.local[0].replace(/\/$/, '');
